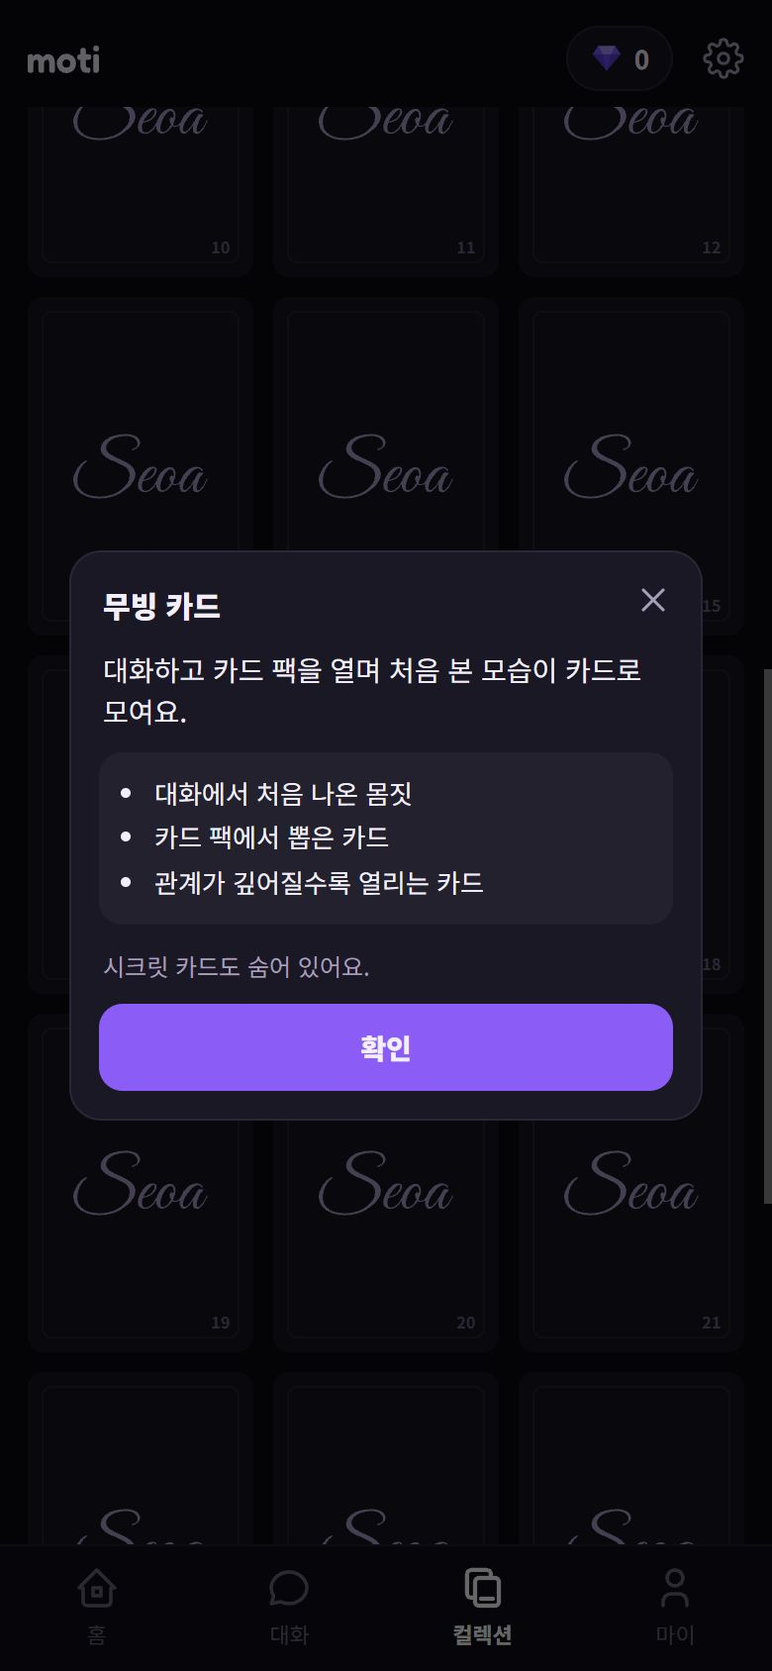
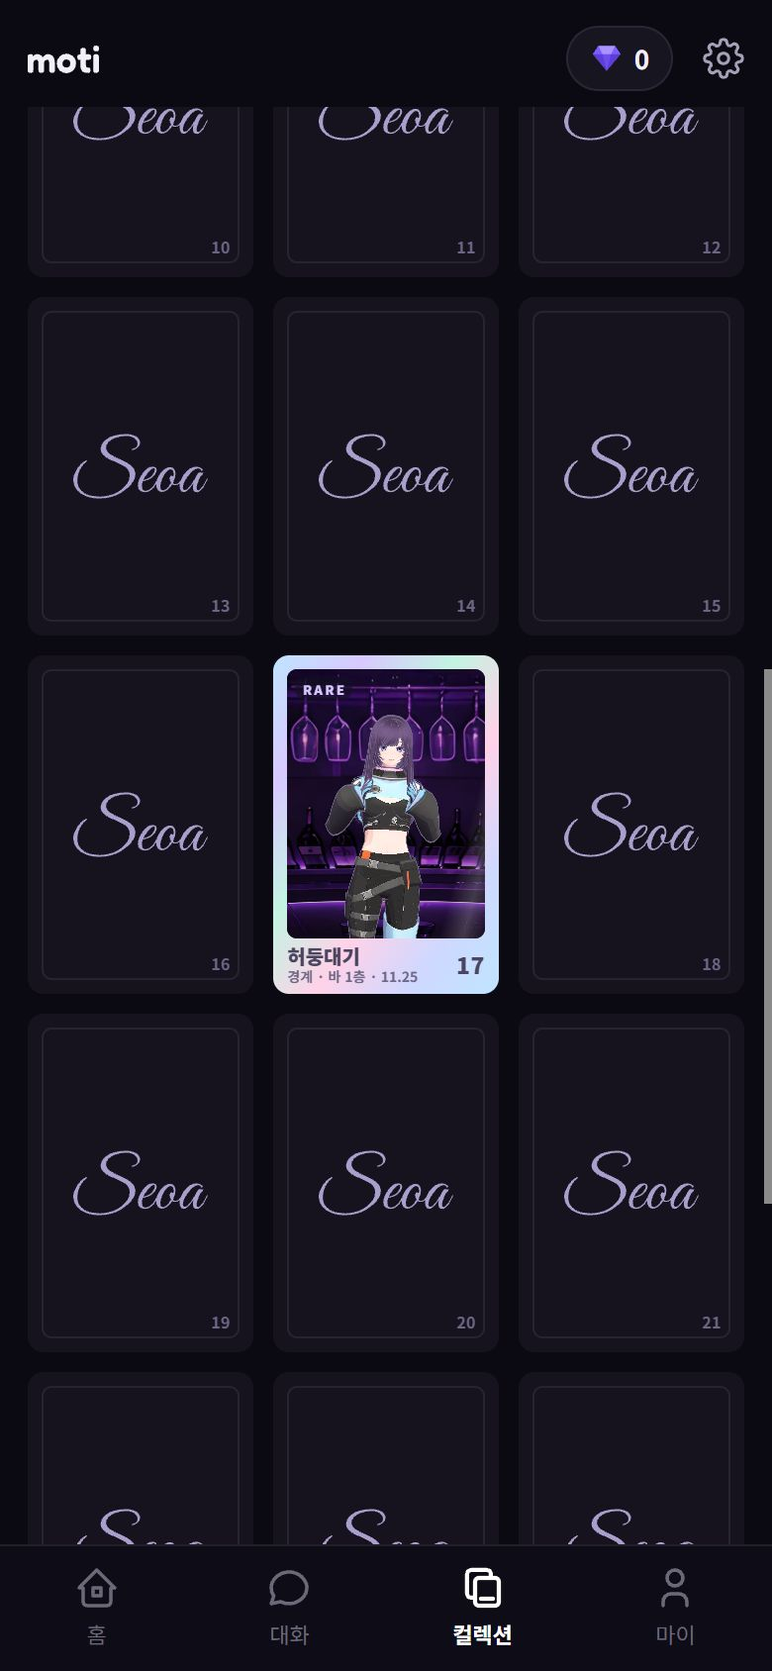
[50-2] 보고서와 진행 현황

diff --git a/docs/reports/50-순간-선물.md b/docs/reports/50-순간-선물.md
@@ -164,3 +164,166 @@
 - 「특별한 순간에」 흐린 그림(`opacity`+`grayscale` 필터)이 사파리에서 그림 문자에도 먹는지
 - 칸 안 when 두 줄 말줄임(`-webkit-line-clamp`)
 - ☂ 그림 문자 모양
+
+## 50-2 · 순간 선물 반응 모션 · 우산 모션 만들기 · 허둥대기 교체 · 카드 손보기
+
+브랜치 `step/50-2-gift-motion` · 커밋 `[50-2A] 순간 선물 반응 모션` · `[50-2B] 허둥대기 교체와 카드 손보기` · `[50-2] 보고서`
+
+> **이제 그냥 주소(`?giftPreview=1` 없이)에서 순간 선물 다섯 개(구급상자·칵테일·따뜻한 수건·꽃다발·우산)가 열리고, 카드 gm01~gm05 가 보입니다.** 반지(x31)는 모션이 없어 잠긴 채입니다.
+
+### 붙인 FBX (다운로드 폴더 → `_src/` 이름 그대로)
+
+| 몸짓 | 쓴 파일 | 지시문 이름과 다른 점 |
+| --- | --- | --- |
+| x26 구급상자 | `standard_Shy _Glancing_around_nervously.fbx` (이미 `_src/` 에 있던 것. 43 에서 변환한 `xstage_glancing_nervously.json` 을 그대로 씀) | 같음 |
+| x27 칵테일 | `[standard]_Shake_Head_Up_and_Down.fbx` | 같음 |
+| x28 따뜻한 수건 | `[standard]_Shy_Touching_handsnervously.fbx` | 같음 |
+| x29 꽃다발 | `[standard]_Shy_Avoiding_eye_contact.fbx` | 같음 |
+| m06 허둥대기 | `[standard]_Flustered_Hand_Gesture.fbx` | 같음 |
+
+### 바뀐 파일
+
+| 파일 | 바뀐 것 |
+| --- | --- |
+| `motions/xstage_shake_head_up_down.json` · `xstage_shy_touching_hands.json` · `xstage_shy_avoiding_eye_contact.json` · `xstage_flustered_hand_gesture.json` | **A·B** 새 FBX 네 개를 45-1 방식(손가락 30개 포함)으로 변환 |
+| `motions/xstage_gift_umbrella.json` · `tools/make_umbrella.mjs` | **A** x30 우산 모션(3초)과 그것을 만드는 도구(아래) |
+| `data/motions.json` | **A** `motions` x26~x30(이름 = 선물 이름, `only: "gift"`), `xstage` x26~x30. x30 `face`·`faceEmo`·`faceAt`(몸짓 중 표정 바꾸기)·`frame`(이 몸짓 동안만 카메라 구도). **B** m06 → Flustered 1.0~3.6초(damp 뺌, motionVer 3→4), x33 4.7~19.8 → 4.7~12.0초(motionVer 2). 설명 |
+| `data/gifts.json` | **A** `momentFallback.rules` 에 꽃다발·우산·반지 |
+| `data/config.json` | **A** `giftPicMs` 1000, `camera.umbrella`·`xsFrameMs`·`xsFrameBackMs` |
+| `index.html` | **A** 선물 그림(`#burst`)을 3D 칸 가운데 아래에서 1초 떠올랐다 사라지게(「동작 줄이기」면 움직임 없이 나타났다 사라짐), 그림 1초가 지난 뒤 답장·반응 몸짓(`send` 의 `o.picAt`), xstage `face`·`frame` 읽기 |
+| `cards.js` · `pack.js` | **B** `fitName(e, min)` — 10장 뽑기 결과는 8px 까지만 줄이고 넘치면 「…」 |
+| `data/collection.json` | **B** `photocard.packNameMinPx` 8, `momentById.m06` 65 → 55 |
+| `tools/check_gacha.mjs` | **B** 50-2 검사(반응 모션 다섯 개 준비·반지 잠금·구간과 원본·x26 damp 없음·x30 표정·구도, 임시 규칙 여섯 개, m06 Flustered 2~4초·motionVer 4, x33 4.7~12초, packNameMinPx 8) → **✓ 모두 통과** |
+| `docs/CREDITS.md` | 새 모션 다섯 개 출처, glancing 파일 쓰는 곳 바뀜 |
+
+### A · 순간 선물 반응 모션
+
+| 몸짓 | 구간 | turn | 섞기(처음·끝) | 원본 배우 방향 |
+| --- | --- | --- | --- | --- |
+| x26 구급상자 | 1~4초 | 90 | 0.25 · 0.3 | −90°, damp 없음(지시대로) |
+| x27 칵테일 | 3~8초 | 7 | 0.25 · 0.3 | −7°(거의 정면). 5.5~7.5초 끄덕임 |
+| x28 따뜻한 수건 | 0.1~3초 | 78 | 0.25 · 0.3 | −69°~−87°, 골반이 옆으로 70cm 비켜 있어 inPlace |
+| x29 꽃다발 | 2~6초 | 93 | 0.25 · 0.3 | −93°, 3.5초쯤 고개를 크게 돌려 눈을 피함 |
+
+넷 다 `inPlace`, 선물 전용(`only: "gift"`).
+
+**확인(그냥 주소, 390×844 헤드리스 Chrome, 서버 `/chat` 을 가로채 서아 답장만 흉내):** 단계를 시연 패널 함수로 맞추고 서아 답장에 단어가 든 대사를 보냄 → 임시 규칙으로 열림 → 선물 시트 → 건네기 → 그림 1초 → 반응 몸짓 → 카드.
+
+| 단계 · 서아 답장 | 열림(reason) | 재생 · 카드 |
+| --- | --- | --- |
+| 1 「…피 좀 났어. 별거 아니야.」 | 구급상자 「서아가 다친 것 같아요」 | x26 · gm01 |
+| 2 「…지쳤어. 오늘은 그냥 쉬고 싶어.」 | 칵테일 「서아가 지쳐 보여요」 | x27 · gm02 |
+| 3 「…비에 흠뻑 젖었어. 보지 마.」 | 따뜻한 수건 「서아가 비에 젖었어요」 | x28 · gm03 |
+| 4 「…내 이름, 불러 보고 싶었어?」 | 꽃다발 「서아가 처음으로 이름을 물었어요」 | x29 · gm04 |
+| 5 「…빗속에 그냥 서 있고 싶었어.」 | 우산 「서아가 빗속에 서 있어요」 | x30 · gm05 |
+| 6 「…남을게. 여기가 돌아올 곳이니까.」 | **안 열림**(반지 모션 없음), `gift_moments` 에 반지 없음 | — |
+
+서버로 보낸 `state.gift_moments` 도 단계마다 하나씩 늘어남(1단계 구급상자 → 5단계 다섯 개, 반지는 안 감). 위 대사들은 확인용으로 흉내 낸 서버 답이고 앱 데이터에는 들어가지 않음.
+
+| 구급상자 시트 | 그림 1초 | x26 | 카드 |
+| --- | --- | --- | --- |
+| ![](img/50/52a-구급상자-시트.jpg) | ![](img/50/52a-구급상자-그림.jpg) | ![](img/50/52a-구급상자-몸짓-300.jpg) | ![](img/50/52a-구급상자-몸짓-1300.jpg) |
+
+| 칵테일 x27 | 따뜻한 수건 x28 | 꽃다발 x29 | 「선물」 탭 |
+| --- | --- | --- | --- |
+| ![](img/50/52b-칵테일-몸짓-3500.jpg) | ![](img/50/52c-수건-몸짓-2300.jpg) | ![](img/50/52d-꽃다발-몸짓-3200.jpg) | ![](img/50/52-선물탭.jpg) |
+
+반지 잠금: ![](img/50/52f-반지-안열림.jpg)
+
+### A · x30 우산 모션 — 파일 하나로 만듦
+
+`tools/make_umbrella.mjs` → `motions/xstage_gift_umbrella.json`(3초, 61KB). 원본 FBX 없이 이미 변환된 두 JSON 에서 만듦:
+
+1. **한 걸음(0~0.73초):** 걷기 x22 파일 0.567~1.30초 — 오른발을 디딘 채 왼발이 나가 디디고, 오른발이 왼발 옆을 지나는 때까지. 원본 배우가 +z(화면 쪽)로 걸어서 turn 없이 다가옴. 다리 각도는 서기 자세 쪽으로 0.5배 줄여 걸음을 좁힘(그대로면 약 0.75m 다가와 너무 큼).
+2. **멈춤(0.73~1.33초):** 0.6초 동안 서기 자세로 섞음. 그동안 걷기 시간도 섞는 몫만큼 느려지며 흐름(갑자기 얼지 않게, 지나가던 발이 앞으로 너무 나갔다 끌려오지 않게). 서기 자세는 칵테일 파일(Shake Head) 2.0초~(끄덕이기 전 가만히 선 구간)을 +7° 돌려 씀.
+3. **올려다보며 씩(1.18초~끝):** 고개 9°·목 5°·등 2° 를 0.5초 동안 들어 끝까지. 표정은 1.2초부터 `fun`(감정 「장난」 → `data/emotion_face.json` 에서 fun, 지금 있는 표정 중 가장 가까움), 끝까지.
+
+**발 고정:** 매 프레임 다리 길이(골반 높이 대비 허벅지·정강이 0.47)로 두 발 위치를 셈하고, 디딘 발이 제자리에 있도록 골반 앞뒤·좌우를 정함. 두 배우의 뼈 기준 방향이 달라서 서기 쪽 회전은 걷기 쪽 기준 방향에 맞게 바꿔 담음.
+
+**앱에서 잰 발 위치(서아 발목 뼈, 그릴 때마다 기록, m):**
+
+| 시각 | 왼발 z | 오른발 z | |
+| --- | --- | --- | --- |
+| 0.58초 | 0.393 | 0.134 | 왼발 디딤 |
+| 0.85초 | 0.401 | 0.352 | 오른발 지나감 |
+| 1.10초 | 0.397 | 0.460 | 오른발 디딤 |
+| 1.4~2.1초 | 0.45±0.01 | 0.47±0.01 | 멈춘 채 고개 듦 |
+
+→ 걸음·멈춤·씩 동안 **디딘 발은 1~4cm 안**(멈출 때 오른발이 4cm 나갔다 돌아옴). 처음 섞기(0.3초) 동안 디딘 오른발이 약 10cm 끌림(x22 걷기와 같은 까닭: 앱이 골반 이동에 섞는 몫을 곱함). 끝 섞기는 아래 「제가 정한 것」.
+
+| 그림 | 0.2초 | 0.6초 | 1.0초 | 1.5초(씩) | 2.1초 | 2.7초(돌아감) |
+| --- | --- | --- | --- | --- | --- | --- |
+| ![](img/50/52e-우산-그림.jpg) | ![](img/50/52e-우산-몸짓-200.jpg) | ![](img/50/52e-우산-몸짓-600.jpg) | ![](img/50/52e-우산-몸짓-1000.jpg) | ![](img/50/52e-우산-몸짓-1500.jpg) | ![](img/50/52e-우산-몸짓-2100.jpg) | ![](img/50/52e-우산-몸짓-2700.jpg) |
+
+(0.6~1.5초 캡처에 처음 얻는 카드 알림 「레어 · 우산」이 몸 위에 겹쳐 있음. 몸짓은 그 아래에서 그대로 나옴.)
+
+**걷기를 정면으로 돌렸을 때 발 모양:** 걷기 원본이 처음부터 화면 쪽으로 걸어서 돌리지 않음. 순간 선물 구도에서는 발이 화면 밖이라 보이지 않음. 전신·옆 구도로 따로 돌려 봤을 때 어색한 발 모양은 못 봤지만 발이 작게 찍혀 캡처는 싣지 않고 위 숫자로 대신함.
+
+### A · 선물 그림 띄우기
+
+- 언제든·순간 선물 모두: 건네면 3D 칸 가운데 아래(`bottom: 12%`)에서 그림(없으면 그림 문자)이 떠올라 1초 뒤 사라짐 → 그 뒤 답장 줄·반응 몸짓. 서버 답이 1초보다 빨리 와도 기다림(`data/config.json giftPicMs`).
+- 「동작 줄이기」: 움직임 없이 나타났다(0.2초) 사라짐(0.75~1초). 잰 투명도 0.27초 1 · 0.82초 0.9 · 1.04초 0.
+
+| 그림 1초(구급상자) | 동작 줄이기(우산) |
+| --- | --- |
+| ![](img/50/52a-구급상자-그림.jpg) | ![](img/50/52l-동작줄이기-그림.jpg) |
+
+### B · 허둥대기 교체 · 카드 손보기
+
+**m06 후보 구간**(Flustered Hand Gesture, 원본 11초, 정면):
+
+| A 1.0~3.6초 (고름) | B 3.4~6.4초 | C 6.2~9.4초 |
+| --- | --- | --- |
+| ![](img/50/52-m06-후보A-1.0-3.6.jpg) | ![](img/50/52-m06-후보B-3.4-6.4.jpg) | ![](img/50/52-m06-후보C-6.2-9.4.jpg) |
+
+- A: 내린 손을 가슴 앞으로 휙 올려 두 손을 허둥지둥 흔들며 정면을 봄 — 손 움직임이 가장 크고 빠름(손목 회전 합이 다른 구간의 2배쯤). B 는 손을 올린 채 어깨 앞에서 만지작, C 는 고개를 숙이며 손을 내림.
+- 고개를 거의 숙이지 않아(−4°) 예전 damp 는 **뺌**, turn 없음. motionVer 3 → 4.
+- 대화에서 `Stage.play('m06')` → 새 파일 재생. 카드 17 은 기록 `mv` 3 으로 두고 다시 열면 그림을 새로 그려 `mv` 4 가 됨. 카드 멈춘 순간 65% → 55%(두 손을 가슴 앞으로 올린 때).
+
+| 대화 m06 | 카드 17 새 그림 | 카드 17 크게 |
+| --- | --- | --- |
+| ![](img/50/52g-m06-대화-1200.jpg) | ![](img/50/52h-카드17-새그림.jpg) | ![](img/50/52h-카드17-크게.jpg) |
+
+**춤 카드(x33):** 4.7~12.0초 = **7.3초** 되풀이(`Stage.dur('x33')` 7.3). 12초는 몸이 정면(4°)이고 팔을 내리는 때라 끝 섞기가 자연스러움. motionVer 2 → 카드 그림 다시 그림.
+
+| 크게 보기 | 3.6초 뒤 | 7.3초 뒤(한 바퀴) |
+| --- | --- | --- |
+| ![](img/50/52j-춤카드-크게.jpg) | ![](img/50/52j-춤카드-크게-3.6초뒤.jpg) | ![](img/50/52j-춤카드-크게-7.3초뒤.jpg) |
+
+**10장 뽑기 결과 이름:** 8px 까지만 줄이고 넘치면 끝을 「…」. 크게 보기는 전체 이름(22.6px, 안 잘림).
+
+![](img/50/52i-10장-결과.jpg)
+
+- 390px 에서 5열 칸이 좁아서 8px 로도 **열 장 모두** 「…」 가 붙음(「툭 받아 …」 같은 짧은 이름도). 예전(52)엔 6px 대까지 줄여 다 보였음.
+
+### 그 밖의 확인
+
+- 예전 저장값(v4, 카드 g01 + m06 `mv` 3 + 옛 gm01, 선물 기록 있음)으로 열기: 오류 없음, `S.v` 5, 옛 gm01 지워짐, 선물 시트 정상. ![](img/50/52k-예전저장값-선물시트.jpg)
+- `data/*.json` 모두 읽힘. 모든 실행에서 콘솔 오류 없음(three.js `morphNormals` 경고·favicon 404 는 예전부터 있던 것).
+- `node tools/check_gacha.mjs` → ✓ 모두 통과.
+
+### 제가 정한 것
+
+- **x30 은 파일 하나로**(`tools/make_umbrella.mjs`). 이어 붙이기 설정으로는 디딘 발을 고정할 수 없어서. 도구 안 `C` 의 숫자(구간·멈추는 시간·다리 몫·고개 각도)로 다시 만들 수 있음.
+- **x30 이 다가오는 거리 약 0.4m**(다리 각도 0.5배). 끝 섞기(0.8초) 동안 **제자리로 미끄러지듯 돌아감** — 앱의 기본 자세가 늘 원래 자리라서. 순간 선물 구도에서는 발이 화면 밖이라 서아가 뒤로 물러나는 것처럼 보임. 돌아오는 걸음까지 넣으려면 모션이 길어져서 이번엔 안 함.
+- **x30 동안만 카메라를 조금 뒤로**(`camera.umbrella`, 위·아래를 넓힘): 평소 구도 그대로면 다가왔을 때 머리가 위로 잘렸음. 처음엔 서아가 조금 작게 보이다가 다가오면 평소 크기쯤. 이를 위해 xstage `frame`(평소 구도일 때 이 몸짓 동안만 쓰는 구도)을 새로 만듦. 다른 몸짓이 오면 평소 구도로.
+- **x30 표정** `fun`(감정 「장난」)·1.2초부터, 그 뒤는 예전처럼 7초 뒤 기본 얼굴. 서아 답장이 다른 표정을 줘도 1.2초에 바뀜.
+- **x30 서기 자세 재료 = 칵테일 파일(Shake Head) 2.0초~**: 받은 모션 중 팔을 내리고 가만히 선 구간이 가장 긴 것.
+- **섞기 0.25 · 0.3초**(지시 0.2~0.3 안). x30 은 처음 0.3 · 끝 0.8초.
+- **turn 값**은 각 구간에서 잰 골반 방향의 평균(x27 7 · x28 78 · x29 93). x29 는 3.5초쯤 고개를 60° 돌리는데(눈 피하기) 그대로 둠.
+- **x26 은 지시대로 damp 없음** → 1~1.5초·2.5~4초에 고개를 깊이 숙여 정수리가 보임(43 에서 damp 를 넣었던 까닭). 캡처 52a 1300 참고. 필요하면 damp 만 다시 넣으면 됨.
+- **반응 몸짓 이름 = 선물 이름**, 감정: 구급상자 당황 · 칵테일 기쁨 · 수건 수줍음 · 꽃다발 수줍음 · 우산 장난.
+- **임시 규칙 순서**: 지금처럼 단계 순서(위에서부터 먼저 맞는 것). 「빗속에 젖어」처럼 두 규칙에 다 맞으면 따뜻한 수건이 먼저.
+- **그림 1초 기다림**: 답장 줄과 몸짓을 함께 1초 뒤로(그림 → 답장·몸짓 순서). 시간은 `giftPicMs`.
+- **m06 구간 A**(1.0~3.6초, 2.6초), 카드 멈춘 순간 55%.
+- **10장 결과 최소 글자 8px** 은 `data/collection.json photocard.packNameMinPx`. 목록·크게 보기(6px)는 그대로.
+- `xstage_glancing_nervously.json` 은 이제 x26 만 씀(m06 은 새 파일).
+- 「단계 맞춤」은 시연 패널 버튼 대신 같은 함수(`Demo.setStage`)를 불러서 함.
+
+### 아이폰에서 나중에 볼 것
+
+- 선물 그림이 3D 칸 아래에서 떠오르는 움직임(`transform`·`opacity` 애니메이션 1초), 그림 문자 크기·세로 자리, 「동작 줄이기」 때 멈춘 채 나타났다 사라짐
+- x30 우산: 카메라가 뒤로 갔다 돌아오는 움직임(0.5초·0.9초), 다가올 때 머리가 잘리지 않는지
+- 반응 모션 손가락(새 파일 네 개)
+- 10장 결과 「…」 글자(8px)가 읽히는지, 크게 보기 전체 이름
+- 춤 카드 7.3초 되풀이, m06 카드 다시 그릴 때 버벅임

diff --git a/docs/CREDITS.md b/docs/CREDITS.md
@@ -26,12 +26,17 @@
 | `motions/xstage_wave_hands_upward.json` (x23 두 손 흔들기) | `onboarding.js`(입장권 「눌러서 입장」 인사, 시연 패널) | XSTAGE 「[standard] Wave Hands Upward」. 라이선스 범위 **확인 필요** | 원본 `standard_Wave_Hands_Upward.fbx`(2026-11-25 받음, `_src/` 에 이름 그대로)를 `tools/fbx2motion.mjs`로 변환(뼈 20개, 30fps, 11.85초). FBX는 저장소에 없음 |
 | `motions/xstage_arms_crossed_female.json` (m07 팔짱 끼기) | `index.html`(대화 몸짓, 답장을 기다릴 때, 시연 패널, 무빙 카드) | XSTAGE 「[standard] Idle_Arms Crossed_female」. 라이선스 범위 **확인 필요** | 원본 `standard_Idle_Arms_Crossed_female.fbx`(2026-11-25 받음)를 `tools/fbx2motion.mjs`로 변환(뼈 20개, 30fps, 20.41초). 25 의 남자 배우 파일 `xstage_idle_arms_crossed_male.json` 은 남겨 둠. FBX는 저장소에 없음 |
 | `motions/xstage_brushing_hair_back.json` (c02 머리 쓸어 넘기기) | `index.html`(대화 몸짓, 시연 패널, 무빙 카드) | XSTAGE 「[standard] Shy_Brushing hair back」. 라이선스 범위 **확인 필요** | 원본 `standard_Shy_Brushing_hair_back.fbx`(2026-11-25 받음)를 `tools/fbx2motion.mjs`로 변환(뼈 20개, 30fps, 7.34초). 원본 배우가 옆을 보고 있어 재생 때 83° 돌림(`turn`). FBX는 저장소에 없음 |
-| `motions/xstage_glancing_nervously.json` (m06 허둥대기) | `index.html`(대화 몸짓, 시연 패널, 무빙 카드) | XSTAGE 「[standard] Shy _Glancing around nervously」. 라이선스 범위 **확인 필요** | 원본 `standard_Shy _Glancing_around_nervously.fbx`(2026-11-25 받음, 이름에 띄어쓰기 그대로)를 `tools/fbx2motion.mjs`로 변환(뼈 20개, 30fps, 5.07초). 원본 배우가 옆을 보고 있어 90° 돌림(`turn`), 등·목·머리를 덜 숙이게(`damp`). FBX는 저장소에 없음 |
+| `motions/xstage_glancing_nervously.json` (50-2 부터 x26 구급상자 반응. 43~50-1 은 m06 허둥대기) | `index.html`(순간 선물 구급상자, gm01) | XSTAGE 「[standard] Shy _Glancing around nervously」. 라이선스 범위 **확인 필요** | 원본 `standard_Shy _Glancing_around_nervously.fbx`(2026-11-25 받음, 이름에 띄어쓰기 그대로)를 `tools/fbx2motion.mjs`로 변환(뼈 20개, 30fps, 5.07초). 원본 배우가 옆을 보고 있어 90° 돌림(`turn`), 등·목·머리를 덜 숙이게(`damp`). FBX는 저장소에 없음 |
 | `motions/xstage_think_chin.json` (x24 턱 괴고 생각하기) | `index.html`(답장을 기다릴 때, 시연 패널) | XSTAGE 「[standard] Standing_Think_Chin」. 라이선스 범위 **확인 필요** | 원본 `standard_Standing_Think_Chin.fbx`(2026-11-25 받음)를 `tools/fbx2motion.mjs`로 변환(뼈 20개, 30fps, 10초). FBX는 저장소에 없음 |
 | `motions/xstage_take_selfie.json` (x25 셀카 자세 · m14 셀카 찍기) | `index.html`·`seoaphoto.js`(서아가 보내는 셀카의 자세, 선물 반응 g07 「같이 셀카 찍기」, 시연 패널) | XSTAGE 「[standard] Take Selfie」. 라이선스 범위 **확인 필요** | 원본 `standard_Take_Selfie.fbx`(2026-11-25 받음)를 `tools/fbx2motion.mjs`로 변환(뼈 20개, 30fps, 16.3초). FBX는 저장소에 없음 |
 | `motions/xstage_cute_fluffy_tilt.json` (x32 귀여운 척 갸웃) | `index.html`·`cards.js`(카드 팩 SECRET g13, 시연 패널) | XSTAGE 「[standard] Cute Fluffy Tilt」. 라이선스 범위 **확인 필요** | 원본 `[standard]_Cute_Fluffy_Tilt.fbx`(2026-11-25 받음, `_src/` 에 이름 그대로)를 `tools/fbx2motion.mjs`로 변환(뼈 20개 + 손가락 30개, 30fps, 7.07초). FBX는 저장소에 없음 |
 | `motions/xstage_catch_catch.json` (x33 시간 날 때마다 연습한 춤) | `index.html`·`cards.js`(카드 팩 SECRET g14, 시연 패널) | XSTAGE 「[standard] Catch Catch」. 라이선스 범위 **확인 필요** | 원본 `[standard]_Catch_Catch.fbx`(2026-11-25 받음, `_src/` 에 이름 그대로)를 `tools/fbx2motion.mjs`로 변환(뼈 20개 + 손가락 30개, 30fps, 21.92초). FBX는 저장소에 없음 |
 | `motions/xstage_cute_thinking.json` (x34 고민하는 척) | `index.html`·`cards.js`(카드 팩 SECRET g15, 시연 패널) | XSTAGE 「[standard] Cute Thinking」. 라이선스 범위 **확인 필요** | 원본 `[standard]Cute_Thinking.fbx`(2026-11-25 받음, `_src/` 에 이름 그대로)를 `tools/fbx2motion.mjs`로 변환(뼈 20개 + 손가락 30개, 30fps, 7.13초). FBX는 저장소에 없음 |
+| `motions/xstage_shake_head_up_down.json` (x27 칵테일 반응, x30 우산의 서기 자세) | `index.html`(순간 선물 칵테일, 컬렉션 「선물」 gm02) | XSTAGE 「[standard] Shake Head Up and Down」. 라이선스 범위 **확인 필요** | 원본 `[standard]_Shake_Head_Up_and_Down.fbx`(2026-11-25 받음, `_src/` 에 이름 그대로)를 `tools/fbx2motion.mjs`로 변환(45-1 방식, 손가락 포함, 12.06초). FBX는 저장소에 없음 |
+| `motions/xstage_shy_touching_hands.json` (x28 따뜻한 수건 반응) | `index.html`(순간 선물 따뜻한 수건, gm03) | XSTAGE 「[standard] Shy Touching hands nervously」. 라이선스 범위 **확인 필요** | 원본 `[standard]_Shy_Touching_handsnervously.fbx`(2026-11-25 받음)를 같은 방식으로 변환(9.69초). FBX는 저장소에 없음 |
+| `motions/xstage_shy_avoiding_eye_contact.json` (x29 꽃다발 반응) | `index.html`(순간 선물 꽃다발, gm04) | XSTAGE 「[standard] Shy Avoiding eye contact」. 라이선스 범위 **확인 필요** | 원본 `[standard]_Shy_Avoiding_eye_contact.fbx`(2026-11-25 받음)를 같은 방식으로 변환(9.01초). FBX는 저장소에 없음 |
+| `motions/xstage_flustered_hand_gesture.json` (m06 허둥대기) | `index.html`(대화 몸짓 m06, 무빙 카드 17) | XSTAGE 「[standard] Flustered Hand Gesture」. 라이선스 범위 **확인 필요** | 원본 `[standard]_Flustered_Hand_Gesture.fbx`(2026-11-25 받음)를 같은 방식으로 변환(10.95초). FBX는 저장소에 없음 |
+| `motions/xstage_gift_umbrella.json` (x30 우산 반응) | `index.html`(순간 선물 우산, gm05) | 위 XSTAGE 「[standard] Walk」(한 걸음)와 「[standard] Shake Head Up and Down」(서기 자세)를 이어 만든 것. 라이선스 범위 **확인 필요** | `tools/make_umbrella.mjs` 로 두 변환 결과(`xstage_walk.json`·`xstage_shake_head_up_down.json`)에서 만듦(3초). 새 원본 없음 |
 | `motion.js` m01~m25, c01~c05 | 전체 | 직접 만든 코드 몸짓 | 외부 자산 아님 |
 
 ## 그림

diff --git a/docs/status.md b/docs/status.md
@@ -1,6 +1,6 @@
 # 진행 현황
 
-기준: 2026-11-25, 52 병합 후
+기준: 2026-11-25, 50-2 병합 후
 
 ## 지금 main에 있는 화면
 
@@ -537,6 +537,18 @@
 - **24 손 흔들기(m13) 일반(DAILY):** `gradeRule.byId`. 이미 가진 카드도 새 등급
 - **m16 응원하기:** 이미 `ban` 이라 대화 몸짓 목록에 없음(그대로). 카드 팩 g08 은 m16 그대로
 
+## 50-2단계에서 main에 들어온 것 (`step/50-2-gift-motion` 병합, 2026-11-25)
+
+보고서: [reports/50-순간-선물.md](reports/50-순간-선물.md) 「50-2」 절
+
+- **순간 선물 반응 모션:** x26 구급상자(Glancing nervously 1~4초) · x27 칵테일(Shake Head 3~8초) · x28 따뜻한 수건(Touching hands 0.1~3초) · x29 꽃다발(Avoiding eye contact 2~6초) · x30 우산(새로 만든 모션). 그냥 주소에서 다섯 선물이 열리고 카드 gm01~gm05 가 보임. 반지(x31)는 잠금
+- **x30 우산:** `tools/make_umbrella.mjs` 로 걷기 한 걸음 → 멈춤(디딘 발 고정) → 고개 들고 「씩」(표정 fun). 이 몸짓 동안만 카메라를 조금 뒤로(`camera.umbrella`). 끝날 때 원래 자리로 미끄러지듯 돌아감
+- **임시 규칙:** 꽃다발(이름·불러 보고) · 우산(빗속·비 맞·가지 마·떠나) · 반지(남을게·안 갈게·돌아올 곳)
+- **선물 그림:** 건네면 3D 칸 가운데 아래에서 1초 떠올랐다 사라진 뒤 답장·반응 몸짓(「동작 줄이기」면 움직임 없이)
+- **m06 허둥대기:** Flustered Hand Gesture 1.0~3.6초(damp 뺌, motionVer 4 → 카드 17 다시 그림)
+- **춤 카드 x33:** 4.7~12초(7.3초 되풀이, motionVer 2)
+- **10장 뽑기 결과 이름:** 8px 까지만 줄이고 넘치면 「…」, 크게 보기는 전체 이름
+
 ## 서버 배포 상태 (확인 가능한 범위)
 
 - 주소: `https://seoa-backand.onrender.com` — 응답함.
@@ -550,6 +562,8 @@
 - ~~51 원고 받기~~ — 51-1 에서 넣음. 서버: `state.route`·갈래별 사건(server-sync 51 절)
 - 아이폰 사파리 확인 (51): 끝 화면 자리·단추 폭, 처음부터 확인창, 배포 뒤 한 번 새로고침 ([51단계 보고서](reports/51-갈래-되감기.md))
 - 아이폰 사파리 확인 (52): 춤 카드 15초 재생 프레임, 카드 아래 한 줄 자리, 줄인 이름 글자 ([52단계 보고서](reports/52-카드팩-시크릿.md))
+- 아이폰 사파리 확인 (50-2): 선물 그림 떠오르기, x30 우산 카메라, 새 모션 손가락, 10장 결과 「…」 ([50 보고서 50-2 절](reports/50-순간-선물.md))
+- 반지 반응 모션(x31) — FBX 가 오면 `data/motions.json` 에 넣기만 하면 열림
 - 서버: 카드 팩 몸짓 x32~x34 는 `motion_list` 에 안 감(서버 할 일 없음). m16 은 예전부터 안 감
 - 아이폰 사파리 확인 (23단계 홈 구조) ([23단계 보고서](reports/23-홈-구조.md))
 - 아이폰 사파리 확인 (24단계 기능판·선물·카메라·사진) ([24단계 보고서](reports/24-기능판-다듬기.md))
